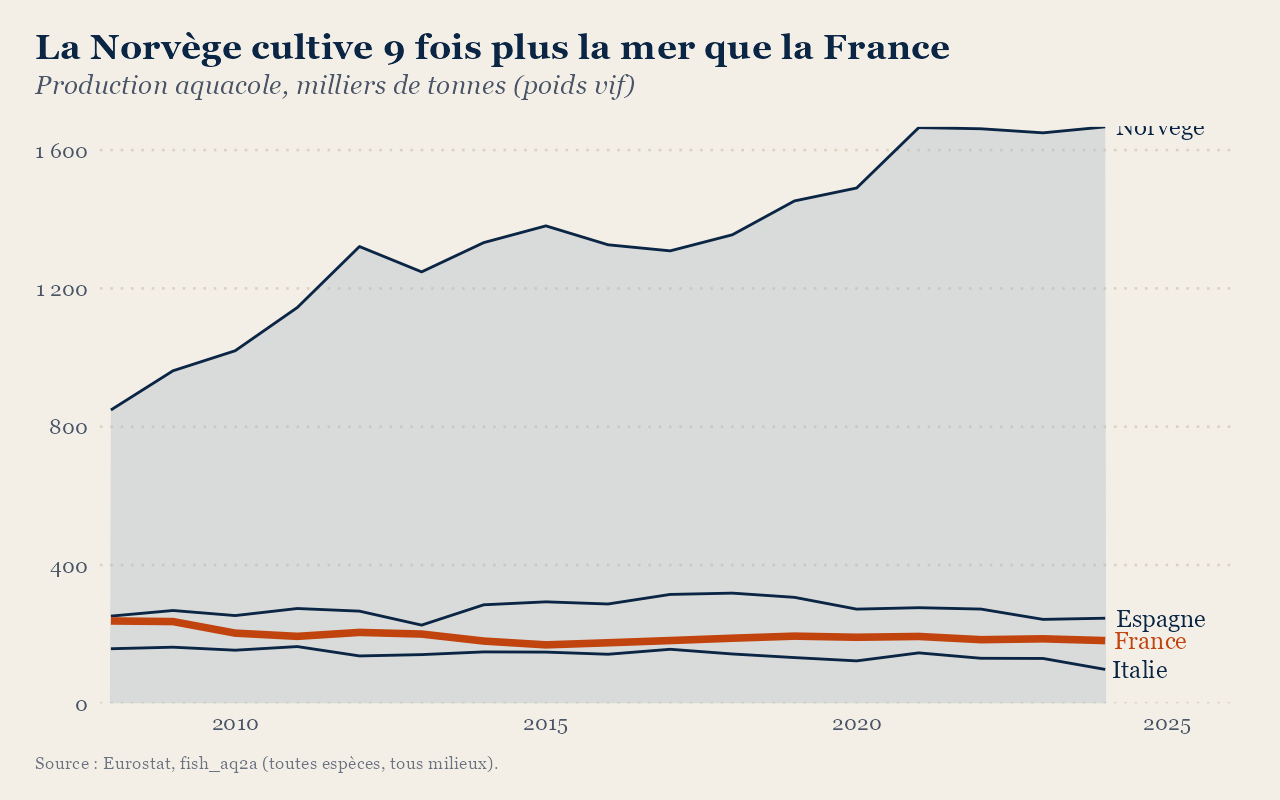
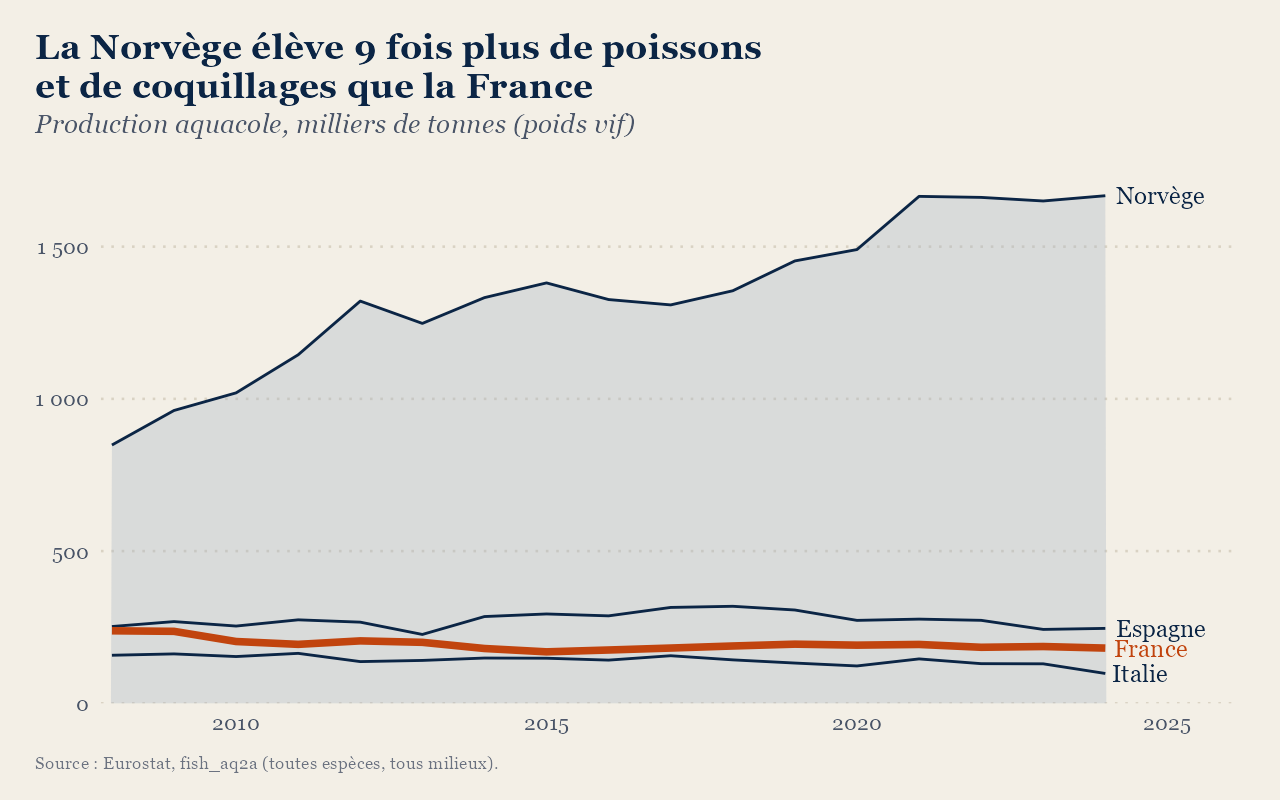
Fret fluvial rapporté à la longueur du réseau ; titre de l'aquaculture précisé

diff --git a/README.md b/README.md
@@ -32,7 +32,10 @@ des cinq entreprises dont l'activité sert directement la surveillance et la con
 La mer ne s'arrête pas au littoral ; elle se prolonge par les fleuves. Or la France possède le plus long réseau navigable
 d'Europe, 8 500 km, et s'en sert de moins en moins. Le fret fluvial est passé de 12,7 milliards de tonnes-kilomètres en 1970
 à 5,6 milliards en 2023, son plus bas historique (Cour des comptes) ; le fleuve ne porte plus que 1,8 % des marchandises,
-contre 40 % aux Pays-Bas (Eurostat).
+contre 40 % aux Pays-Bas (Eurostat). Rapporté à la longueur du réseau, l'écart se creuse encore : en 2025, chaque kilomètre
+de voie navigable française a porté 0,7 million de tonnes-kilomètres, contre 4,7 en Belgique, 5,8 en Allemagne et 8,8 aux
+Pays-Bas. Le Rhin, qui apporte à ces deux derniers un important trafic de transit, explique une partie de la différence ;
+la Belgique, qui n'en bénéficie pas, fait pourtant près de sept fois mieux.
 
 La raison tient moins à la nature du transport fluvial qu'à l'état du réseau. Sur ces 8 500 km, 5 600 relèvent encore du
 gabarit fixé par la loi Freycinet de 1879, conçu pour des péniches de moins de 400 tonnes ; aux Pays-Bas et en Allemagne,
